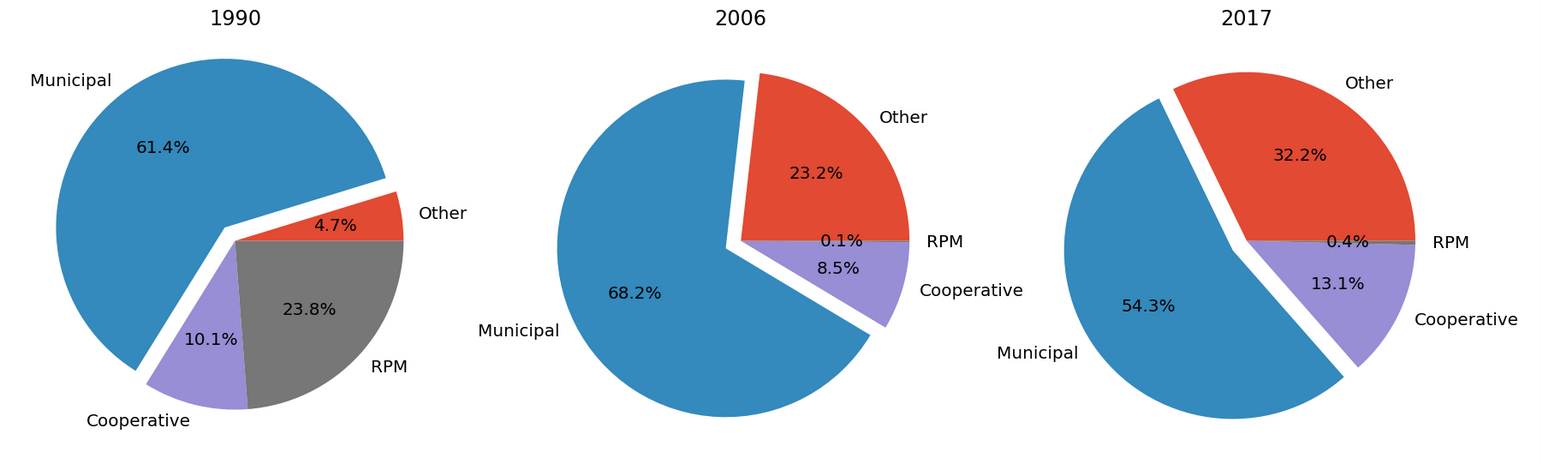
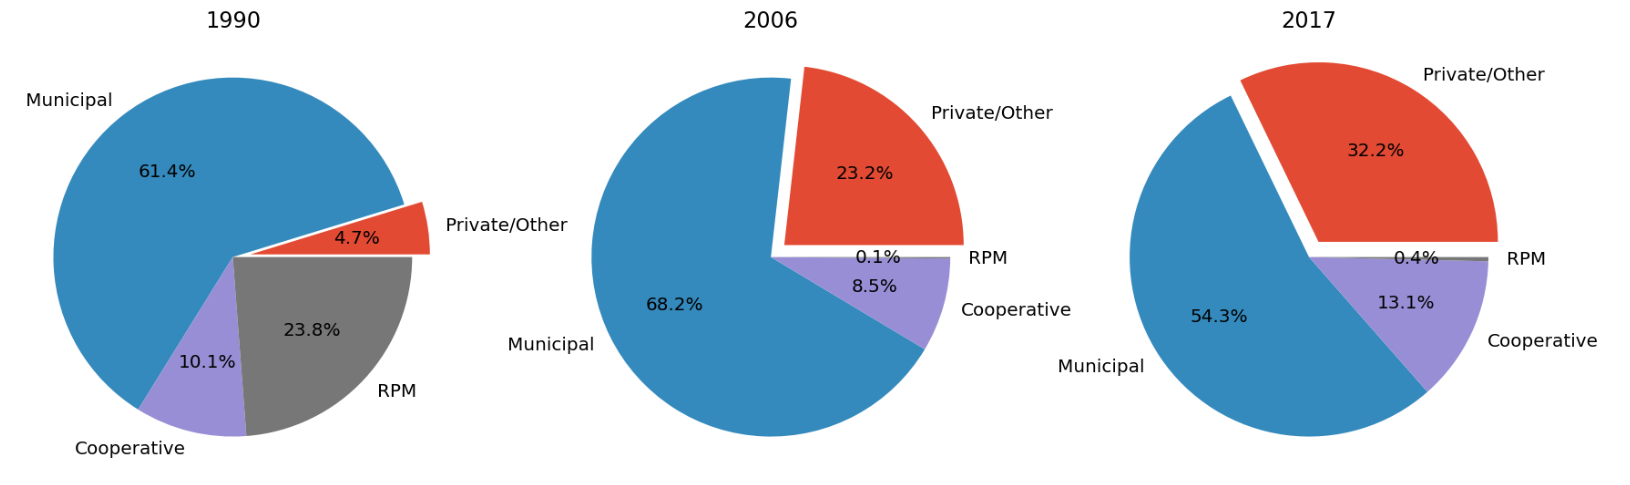
script changes and finished readme

diff --git a/src/partial_dependence.py b/src/partial_dependence.py
@@ -1,0 +1,36 @@
+from sklearn.ensemble import GradientBoostingRegressor
+from sklearn.metrics import mean_squared_error
+from sklearn.inspection import partial_dependence, plot_partial_dependence
+import numpy as np
+import pandas as pd
+import matplotlib.pyplot as plt
+
+
+
+if __name__ == '__main__':
+    y_train = pd.read_csv('../data/y_train.csv',index_col='Unnamed: 0')
+    y_train = y_train['0']
+    X_train = pd.read_csv('../data/X_train.csv',index_col='Unnamed: 0')
+
+    y_test = pd.read_csv('../data/y_test.csv',index_col='Unnamed: 0')
+    y_test = y_test['0']
+    X_test = pd.read_csv('../data/X_test.csv',index_col='Unnamed: 0')
+
+    model = GradientBoostingRegressor(learning_rate=0.2,max_depth=9,min_samples_leaf=15
+                                        ,max_features='auto',n_estimators=150,max_leaf_nodes=8)
+    
+    model.fit(X_train,y_train)
+
+    print(X_train.columns)
+    fig, ax = plt.subplots(figsize=(18,18))
+    my_plots = plot_partial_dependence(model,       
+                                   features=[15,16,17,18,19,20,21,22,23,24,25], # column numbers of plots we want to show
+                                   X=X_train,            # raw predictors data.
+                                   feature_names=list(X_train.columns), # labels on graphs
+                                   grid_resolution=100,
+                                   percentiles=(.01,.99),
+                                   ax=ax) # number of values to plot on x axis
+
+    plt.show()
+    # plt.savefig('../images/partial_dependence_nuke.png',dpi=60)
+    

diff --git a/src/eda_plotting.py b/src/eda_plotting.py
@@ -49,7 +49,7 @@ if __name__ == '__main__':
     plt.setp(legend.get_texts(), color='black')
     ax.set_title('Generation Type by Year',color='black',fontsize=24)
     plt.xticks(fontsize=20)
-    plt.xlabel('Total Megawatt Hours',fontsize=24)
+    plt.xlabel('Total Megawatts',fontsize=24)
     plt.yticks(fontsize=20)
     plt.savefig('../images/gen_by_year.png',dpi=60)
 
@@ -86,7 +86,7 @@ if __name__ == '__main__':
     explode = (0,.1,0,0)
 
     fig, ax = plt.subplots(3,1,figsize=(12,30))
-    
+
     ax.flatten()[0].pie(sizes_1, labels=labels,explode=explode,autopct='%1.1f%%',textprops={'fontsize': 18})
     ax.flatten()[1].pie(sizes_2, labels=labels,explode=explode,autopct='%1.1f%%',textprops={'fontsize': 18})
     ax.flatten()[2].pie(sizes_3, labels=labels,explode=explode,autopct='%1.1f%%',textprops={'fontsize': 18})

diff --git a/README.md b/README.md
@@ -24,9 +24,7 @@
    - [Important features](#Important-features)
 - [Generation Portfolio Recommendations](#Generation-Portfolio-Recommendations)
   - [How to increase revenues](#How-to-increase-revenues)
-- [Conclusion](#conclusion)
-   - [Summary](#summary)
-   - [Next steps](#next-steps)
+- [Next steps](#next-steps)
  
 # Introduction
 ## Background & overview:
@@ -57,7 +55,7 @@ The flow of this process is as follows:
 | 5            | Join Aggregate 860 and 861 Datasets                 |
 
 ### Feature and data standardization:
-The bulk of data cleansing took the form of standardizing the data across all years of survey results. A few examples of inconsistancies in the data are as follows:
+The bulk of data cleansing took the form of standardizing the data across all years of survey results. A few examples of inconsistencies in the data are as follows:
 
 - **Column names:** abbreviations/acronym changes
 - **File types:** storage of the data in different file formats
@@ -71,7 +69,7 @@ As mentioned above I took the EIA 860 generator level data and created new featu
 |:---------------:|:--------:|
 |       Coal      |     1    |
 |   Natural Gas   |     2    |
-|    Petrolium    |     3    |
+|    Oil    |     3    |
 | Hydroelectric   | 4        |
 | Geothermal      | 5        |
 | Wind            | 6        |
@@ -83,34 +81,76 @@ As mentioned above I took the EIA 860 generator level data and created new featu
 |:--------------:|:--------:|
 |    Municipal   |     1    |
 |   Cooperative  |     2    |
-|     Private    |     3    |
-|      Other     |     0    |
+|     Retail Power Marketer    |     3    |
+|      Other/Private     |     0    |
 
 ### Final product:
 
 The Final dataset consisted of data for each utility by year with features outlining peak capacity (total, winter and summer), sales (in MWh), revenues, ownership type, percentage of generation from each type and MW generated at peak for each type.
 
-**---------------------------------------------POSSIBLY PUT CLEANED ROW HERE---------------------------------------------------**
 
 # Additional Data Cleaning & Exploratory Data Analysis
-## How has the US energy landscape changed?
-
+## How has the US utility ownership landscape changed?
+![Pie](./images/ownershiptypes.png)
+As you can see the percentage of utility ownership has been shifting more toward private companies in recent years. This fact drives home the value of this project as private companies are more driven to produce profits.
 
 ## What are the top generation methods?
+![GenerationTypes](./images/gen_by_year.png)
+The graph above shows the amount generated for years 1990, 2006 and 2017 segmented by generation type.
 
- 
+**A few notes:**
+- Generation by coal, nuclear and oil have fallen in recent years
+- As wind and solar technologies have improved we are seeing more generation in those categories
+- Natural gas has steadily increased over time, likely do to the repurposing of coal/oil plants to natural gas
+
 ## Addressing scaling:
-
+One thing to address before moving into the following section on my regression model: I absolute and log scaled revenues to provide a more normal distribution. This **greatly increased** the predictive performance of my model.
 
 # Model Selection & Analysis
 ## Gradient boosted regression:
+*Check [here](./src/load_split) for model selection scripts**
+
+To predict revenues per megawatthour sold I chose to use a cross-validated randomsearch followed by a cross-validated gridsearch method in sklearn. The randomsearch tested a large range of model hyperparameters and the gridsearch focused in on the smaller range generated. From there I chose the model with the lowest training RMSE score.
+
+After testing several models I landed on **sklearn's GradientBoostedRegressor model** with the following hyperparameters:
+
+|     Parameter    | Value |
+|:----------------:|:-----:|
+|   Learning Rate  |  0.2  |
+|     Max Depth    |   9   |
+| Min Samples Leaf |   15  |
+|   Max Features   |  auto |
+| # Estimators     | 150   |
+| Max Leaf Nodes   | 8     |
+
+This model produced very accurate predictions for revenues per MWh sold with **an RMSE score of 1.8707 on unseen data.**
 
 ## Important features:
+Earlier I mentioned the increasing amount of electricity generation by natural gas, solar and wind. These generation technologies did not have a large impact on the prediction one way or the other. The generation type with the highest impact on predicted revenue was nuclear.
+
+![Partial_Dependence](./images/partial_dependence_nuke.png)
+
+The Partial dependence plot above shows that the greater the generation from nuclear power the average revenue predicted will increase. One thing to note is the spike at around 950 megawatts, this is likely due to the data layout and will smooth given more data. Nuclear power generation seems to have the greatest impact on increasing revenue per sale but it is not the only one, some other **revenue boosting features include:**
+
+- Municipal ownership
+- Having at least one solar generator
+- Having more than one type of generation
+
+**Revenue per sale reducing features include:**
+
+- Hydroelectric generation
+- Having a high percentage of natural gas based generation
+- Having a high percentage of oil based generation
 
 # Generation Portfolio Recommendations
 ## How to increase revenues:
 
-# Conclusion
-## Summary:
+Going off the analysis provided in the section above my recommendations for energy utilities to increase revenue per sale are as follows:
+- **Diversify generation portfolios:** high percentages of generation, specifically natural gas and oil reduce average revenue per MWh sold
+- **Continue nuclear operations:** with many nuclear power plants scheduled to retire in the coming years it is paramount to keep these operational as they are some of the best factors in increasing revenue per sale. Investment in new nuclear generators could also be an option but initial costs would likely prevent returns for many years
 
-## Next steps:
+# Next steps:
+- Enhance pipeline scripts to pull more features
+- Refactor codebase for easy analysis on new data
+- Automate model selection for next years data
+- Host project on web servers
